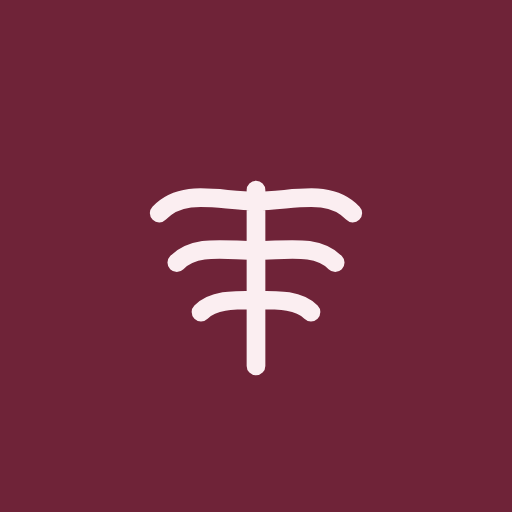
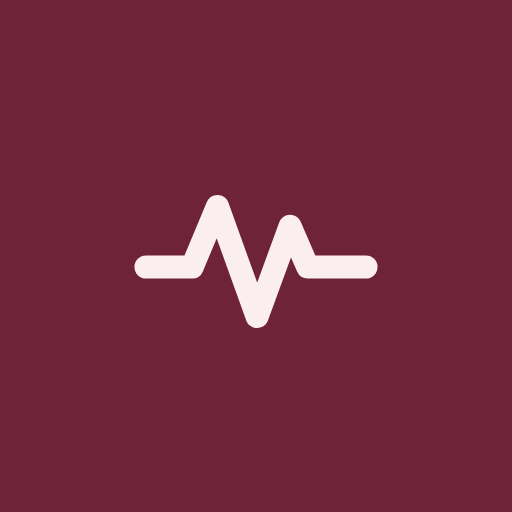
Renomeia para Ritmo; inspiração para posts com estudos e dúvidas do público
- Novo nome (Ritmo), logo e ícones do app
- Conteúdo: painel Inspiração para posts com notícias recentes, estudos
  científicos e revisões do PubMed (títulos traduzidos) e buscas reais do Google
- Cada item vira ideia de post já com a referência nas anotações

Claude-Session: https://claude.ai/code/session_012jSfnKM1HyG88L2FjggULZ

Changed region(s): [[0.25, 0.3438, 0.75, 0.75]]

diff --git a/index.html b/index.html
@@ -9,7 +9,7 @@
 <link rel="apple-touch-icon" href="icons/apple-touch-icon.png">
 <meta name="apple-mobile-web-app-capable" content="yes">
 <meta name="mobile-web-app-capable" content="yes">
-<title>Recanto</title>
+<title>Ritmo</title>
 <meta name="claude:viewport-fit-sides" content="cover">
 <link rel="preconnect" href="https://fonts.googleapis.com">
 <link rel="stylesheet" href="https://fonts.googleapis.com/css2?family=Fraunces:ital,opsz,wght@0,9..144,300..600;1,9..144,300..600&family=Inter:wght@400;500;600&family=JetBrains+Mono:wght@400;500;700&display=swap">
@@ -282,6 +282,15 @@ img{max-width:100%}
 .news.compact li{border-color:color-mix(in srgb,currentColor 18%,transparent);padding:8px 0}
 .news.compact a{font-size:15px}
 .news.compact span{color:inherit;opacity:.7}
+.news .orig{font-size:11.5px;color:var(--soft);font-style:italic}
+.news .tipo{font-weight:500;color:var(--clay)}
+.qgroups{display:grid;grid-template-columns:repeat(auto-fill,minmax(260px,1fr));gap:16px}
+.qgroup h3{margin:0 0 8px;font-family:var(--f-display);font-weight:500;font-size:16px}
+.qchips{display:flex;flex-wrap:wrap;gap:6px}
+.qchip{border:1px solid var(--line);background:var(--surface2);border-radius:99px;padding:5px 11px;font-size:12.5px;color:var(--ink);text-align:left}
+.qchip b{color:var(--clay);margin-left:2px}
+.qchip:hover{border-color:var(--clay)}
+.qchip.done{color:var(--ok);background:none}
 .topics{display:flex;gap:6px;overflow-x:auto;padding-bottom:2px;scrollbar-width:none}
 .topics button{border:1px solid var(--line);background:var(--surface);border-radius:99px;padding:6px 14px;font-size:13px;color:var(--muted);white-space:nowrap}
 .topics button[aria-selected="true"]{background:var(--wine);border-color:var(--wine);color:var(--on-wine)}
@@ -317,7 +326,7 @@ img{max-width:100%}
 .help{color:var(--muted);font-size:12px;line-height:1.5}
 .gate{position:fixed;inset:0;z-index:80;background:var(--paper);display:grid;place-items:center;padding:16px}
 .gate-card{background:var(--surface);border:1px solid var(--line);border-radius:18px;padding:24px;width:min(380px,100%);display:flex;flex-direction:column;gap:12px}
-.gate-card .brand b{font-size:26px}
+.gate-card .brand b{font-size:26px;display:inline!important}
 .gate-sub{margin:0;color:var(--muted)}
 .gate-msg{margin:0;font-size:13px;color:var(--clay);min-height:1em}
 </style>
@@ -327,8 +336,8 @@ img{max-width:100%}
 <div class="app">
   <aside class="side">
     <div class="brand">
-      <svg viewBox="0 0 32 32" aria-hidden="true"><circle cx="16" cy="16" r="15" fill="var(--wine)"/><path d="M16 25V11M16 12c-3 0-6-1-8 1M16 12c3 0 6-1 8 1M16 16c-2.5 0-5-.5-6.5 1M16 16c2.5 0 5-.5 6.5 1M16 20c-2 0-3.5 0-4.5 1M16 20c2 0 3.5 0 4.5 1" stroke="var(--on-wine)" stroke-width="1.6" fill="none" stroke-linecap="round"/></svg>
-      <b>Re<i>canto</i></b>
+      <svg viewBox="0 0 32 32" aria-hidden="true"><circle cx="16" cy="16" r="15" fill="var(--wine)"/><path d="M6 17h4.2l2.3-5.5 3.6 10 3-8.2 1.6 3.7H26" stroke="var(--on-wine)" stroke-width="1.9" fill="none" stroke-linecap="round" stroke-linejoin="round"/></svg>
+      <b>Rit<i>mo</i></b>
     </div>
     <nav class="nav" id="nav" aria-label="Seções"></nav>
     <div class="side-foot">
@@ -345,7 +354,7 @@ img{max-width:100%}
 <div id="layer"></div>
 <div class="gate" id="gate" hidden>
   <form class="gate-card" id="gForm" novalidate>
-    <div class="brand"><svg viewBox="0 0 32 32" aria-hidden="true"><circle cx="16" cy="16" r="15" fill="var(--wine)"/><path d="M16 25V11M16 12c-3 0-6-1-8 1M16 12c3 0 6-1 8 1M16 16c-2.5 0-5-.5-6.5 1M16 16c2.5 0 5-.5 6.5 1M16 20c-2 0-3.5 0-4.5 1M16 20c2 0 3.5 0 4.5 1" stroke="var(--on-wine)" stroke-width="1.6" fill="none" stroke-linecap="round"/></svg><b>Re<i>canto</i></b></div>
+    <div class="brand"><svg viewBox="0 0 32 32" aria-hidden="true"><circle cx="16" cy="16" r="15" fill="var(--wine)"/><path d="M6 17h4.2l2.3-5.5 3.6 10 3-8.2 1.6 3.7H26" stroke="var(--on-wine)" stroke-width="1.9" fill="none" stroke-linecap="round" stroke-linejoin="round"/></svg><b>Rit<i>mo</i></b></div>
     <p class="gate-sub">Entre para ver e salvar seus dados.</p>
     <div class="field"><label class="mono" for="gEmail">E-mail</label><input id="gEmail" type="email" autocomplete="email" required></div>
     <div class="field"><label class="mono" for="gPass">Senha</label><input id="gPass" type="password" autocomplete="current-password" minlength="6" required></div>
@@ -758,7 +767,7 @@ function sparkline(vals,stroke){
 /* ================= componentes ================= */
 function head(sec,title,sub,right=''){
   const d=TODAY;
-  return `<div class="head"><div><div class="crumb mono">Recanto / <span>${sec}</span> · ${DOW[d.getDay()]}, ${d.getDate()} de ${MES[d.getMonth()]}</div><h1>${title}${sub?`<small>${sub}</small>`:''}</h1></div><div style="display:flex;gap:8px;flex-wrap:wrap">${right}</div></div>`;
+  return `<div class="head"><div><div class="crumb mono">Ritmo / <span>${sec}</span> · ${DOW[d.getDay()]}, ${d.getDate()} de ${MES[d.getMonth()]}</div><h1>${title}${sub?`<small>${sub}</small>`:''}</h1></div><div style="display:flex;gap:8px;flex-wrap:wrap">${right}</div></div>`;
 }
 function miniCal(off){
   const base=new Date(TODAY.getFullYear(),TODAY.getMonth()+off,1);
@@ -791,7 +800,7 @@ V.inicio=()=>{
   return `
   <section class="hero">
     <div class="hero-txt">
-      <div class="crumb mono">Recanto / <span>Início</span> · ${DOW[TODAY.getDay()]}, ${TODAY.getDate()} de ${MES[TODAY.getMonth()]}</div>
+      <div class="crumb mono">Ritmo / <span>Início</span> · ${DOW[TODAY.getDay()]}, ${TODAY.getDate()} de ${MES[TODAY.getMonth()]}</div>
       <h1>${g}, <button data-act="rename" title="Mudar nome">${esc(S.name)}</button></h1>
       <div class="hero-sum">Você tem <b>${pend}</b> tarefa${pend===1?'':'s'} para hoje, <b>${habPend}</b> hábito${habPend===1?'':'s'} por marcar e <b>${evToday}</b> compromisso${evToday===1?'':'s'}.${late.length?` <span style="color:var(--bad)">${late.length} atrasada${late.length>1?'s':''}.</span>`:''}</div>
       <div class="quick">
@@ -927,7 +936,7 @@ V.conteudo=()=>{
       <div class="panel"><div class="panel-h"><h2>Próximos posts</h2></div><div class="rows">${upcoming.map(row).join('')||'<div class="empty">Nada agendado.</div>'}</div></div>
     </div>
   </div>
-  <div class="panel"><div class="panel-h"><h2>${ico('news')}Ideias: nutrição esportiva</h2><span style="display:flex;gap:6px"><button class="btn sm" data-act="newsreload" data-v="nutricao">↻</button><a class="btn sm" href="#noticias" data-act="gonutri">Ver todas</a></span></div>${newsList(G.news.nutricao,6,{topic:'nutricao',idea:true})}</div>`;
+  ${inspPanel()}`;
 };
 function bindPostDrag(){
   document.querySelectorAll('[data-pdrag]').forEach(el=>el.addEventListener('dragstart',ev=>{ev.stopPropagation();ev.dataTransfer.setData('text/plain',el.dataset.pdrag);ev.dataTransfer.effectAllowed='move'}));
@@ -997,7 +1006,7 @@ const ACT_EXTRA={
   newstopic:e=>{G.topic=e.dataset.v;loadNews(G.topic);render();return 'skip'},
   newsreload:e=>{loadNews(e.dataset.v||(ui.route==='inicio'?'destaques':ui.route==='conteudo'?'nutricao':G.topic),true);return 'skip'},
   gonutri:()=>{G.topic='nutricao';loadNews('nutricao');location.hash='noticias';return 'skip'},
-  toidea:e=>{S.posts.push({id:uid(),title:e.dataset.t,platform:'Instagram',format:'Reels',status:'ideia',date:'',time:'',account:ui.ctAcc!=='all'?ui.ctAcc:'',reach:0,link:e.dataset.l,caption:'',hashtags:'',notes:''});toast('Ideia salva em Conteúdo → Ideias sem data')},
+  toidea:e=>{S.posts.push({id:uid(),title:e.dataset.t,platform:'Instagram',format:'Reels',status:'ideia',date:'',time:'',account:ui.ctAcc!=='all'?ui.ctAcc:'',reach:0,link:e.dataset.l,caption:'',hashtags:'',notes:e.dataset.n||''});toast('Ideia salva em Conteúdo → Ideias sem data')},
   pnew:()=>postForm(),pedit:e=>postForm(e.dataset.id),pnewday:e=>postForm(null,{date:e.dataset.d}),
   accnew:()=>accountForm(),accedit:e=>accountForm(e.dataset.id),
   ctsel:e=>{ui.ctSel=e.dataset.d;render();if(matchMedia('(max-width:900px)').matches)$('#daypanel')?.scrollIntoView({behavior:'smooth',block:'start'});return 'skip'},
@@ -1012,6 +1021,63 @@ const ACT_EXTRA={
   },'Conectar'),
   gdisconnect:async()=>{const {error}=await sb.from('recanto_config').update({google_ical:null}).eq('user_id',cloud.uid);if(error){toast('Não deu para desconectar');return 'skip'}G.gcal={conectado:false,eventos:[],erro:'',at:null,loading:false};saveExtras();toast('Google Agenda desconectado');render();return 'skip'}
 };
+
+/* ================= inspiração para posts ================= */
+const INSP_TABS=[['noticias','Notícias'],['estudos','Estudos científicos'],['revisoes','Revisões e meta-análises'],['perguntas','O que o público pergunta']];
+G.insp={};G.inspAt={};G.inspErr={};G.inspLoading={};G.inspTab='noticias';
+try{const c=JSON.parse(localStorage.getItem('ritmo.insp')||'null');if(c){G.insp=c.insp||{};G.inspAt=c.at||{}}}catch(e){}
+async function loadInsp(t,force){
+  if(t==='noticias')return loadNews('nutricao',force);
+  if(!sb||!cloud.uid)return;
+  if(!force&&G.inspAt[t]&&Date.now()-new Date(G.inspAt[t])<30*60e3)return;
+  G.inspLoading[t]=true;G.inspErr[t]='';refreshIf('conteudo','noticias');
+  try{
+    const {data,error}=await sb.functions.invoke('inspiracao',{body:{tipo:t}});
+    if(error||!data||data.erro)throw error||new Error(data?.erro);
+    G.insp[t]=t==='perguntas'?data.grupos:data.itens;G.inspAt[t]=data.atualizado;
+    if(t!=='perguntas')traduzir(data.itens.map(a=>a.original));
+    try{localStorage.setItem('ritmo.insp',JSON.stringify({insp:G.insp,at:G.inspAt}))}catch(e){}
+  }catch(e){G.inspErr[t]='Não deu para carregar agora.'}
+  G.inspLoading[t]=false;refreshIf('conteudo','noticias');
+}
+// Tradução dos títulos em inglês, feita no aparelho e guardada para não repetir.
+let TRAD={};try{TRAD=JSON.parse(localStorage.getItem('ritmo.trad')||'{}')}catch(e){}
+async function traduzir(lista){
+  const falta=[...new Set(lista.filter(t=>!TRAD[t]))].slice(0,40);
+  for(let i=0;i<falta.length;i+=4){
+    await Promise.all(falta.slice(i,i+4).map(async t=>{
+      try{const r=await fetch('https://translate.googleapis.com/translate_a/single?client=gtx&sl=en&tl=pt&dt=t&q='+encodeURIComponent(t));if(!r.ok)return;const d=await r.json();const pt=(d[0]||[]).map(x=>x[0]).join('').trim();if(pt)TRAD[t]=pt}catch(e){}
+    }));
+  }
+  try{const keys=Object.keys(TRAD);if(keys.length>400)keys.slice(0,keys.length-400).forEach(k=>delete TRAD[k]);localStorage.setItem('ritmo.trad',JSON.stringify(TRAD))}catch(e){}
+  if(falta.length)refreshIf('conteudo');
+}
+const tr=a=>TRAD[a.original]||a.titulo;
+const isIdea=link=>S.posts.some(p=>p.link===link);
+const ideaBtn=(title,link,note)=>isIdea(link)?`<span class="saved">✓ Já está nas ideias</span>`:`<button class="btn sm idea" data-act="toidea" data-t="${esc(title)}" data-l="${esc(link)}" data-n="${esc(note||'')}">${ico('plus')} Virar ideia de post</button>`;
+function inspBody(t){
+  if(t==='noticias')return `<p class="gc-p">Notícias dos últimos dias sobre suplementação, proteína, treino e dieta, das mais novas para as mais antigas.</p>${newsList(G.news.nutricao,12,{topic:'nutricao',idea:true})}`;
+  const d=G.insp[t];
+  if(!d||!d.length){
+    if(G.inspErr[t])return `<div class="empty">${G.inspErr[t]} <button class="btn sm" data-act="inspreload">Tentar de novo</button></div>`;
+    return `<div class="empty">${G.inspLoading[t]?'Buscando…':'Carregando…'}</div>`;
+  }
+  if(t==='perguntas'){
+    return `<p class="gc-p">Buscas reais feitas no Google sobre nutrição esportiva. Cada dúvida pode virar um post. Toque em <b>+</b> para guardar como ideia.</p><div class="qgroups">${d.map(g=>`<div class="qgroup"><h3>${esc(g.tema)}…</h3><div class="qchips">${g.itens.map(q=>{const title=q.charAt(0).toUpperCase()+q.slice(1)+'?';const link='https://www.google.com/search?q='+encodeURIComponent(q);return isIdea(link)?`<span class="qchip done">✓ ${esc(q)}</span>`:`<button class="qchip" data-act="toidea" data-t="${esc(title)}" data-l="${esc(link)}" data-n="Dúvida buscada no Google: “${esc(q)}”">${esc(q)} <b>+</b></button>`}).join('')}</div></div>`).join('')}</div>`;
+  }
+  return `<p class="gc-p">${t==='estudos'?'Artigos publicados nas últimas semanas (PubMed). Ótimos para posts do tipo “o que a ciência diz”.':'Revisões e meta-análises recentes: juntam vários estudos e dão as conclusões mais fortes.'} Títulos traduzidos automaticamente.</p>
+  <ol class="news">${d.map(a=>`<li><a href="${esc(a.link)}" target="_blank" rel="noopener noreferrer">${esc(tr(a))}</a>${tr(a)!==a.original?`<span class="orig">${esc(a.original)}</span>`:''}<div class="nmeta"><span><b class="tipo">${esc(a.tipo)}</b> · ${esc(a.fonte)}${a.data?' · '+esc(a.data):''}</span>${ideaBtn(tr(a),a.link,`Base científica: ${a.tipo} — “${a.original}” (${a.fonte}, ${a.data||''}). ${a.link}`)}</div></li>`).join('')}</ol>`;
+}
+function inspPanel(){
+  const t=G.inspTab;const at=t==='noticias'?G.newsAt.nutricao:G.inspAt[t];
+  return `<div class="panel" id="insp"><div class="panel-h"><h2>${ico('trend')}Inspiração para posts</h2><button class="btn sm" data-act="inspreload">↻ Atualizar</button></div>
+  <div class="topics" role="tablist" style="margin-bottom:12px">${INSP_TABS.map(([k,l])=>`<button role="tab" data-act="insptab" data-v="${k}" aria-selected="${k===t}">${l}</button>`).join('')}</div>
+  ${inspBody(t)}<div class="foot-note" style="color:var(--muted)">${t==='noticias'?'Fonte: Google Notícias':t==='perguntas'?'Fonte: sugestões de busca do Google':'Fonte: PubMed (Biblioteca Nacional de Medicina dos EUA)'}${at?' · atualizado '+rel(at):''}</div></div>`;
+}
+Object.assign(ACT_EXTRA,{
+  insptab:e=>{G.inspTab=e.dataset.v;loadInsp(G.inspTab);render();return 'skip'},
+  inspreload:()=>{loadInsp(G.inspTab,true);return 'skip'}
+});
 
 /* ================= navegação ================= */
 const NAV=[['inicio','Início','home'],['tarefas','Tarefas','tasks'],['habitos','Hábitos','habit'],['cerebro','Segundo cérebro','brain'],['noticias','Notícias','news'],['agenda','Agenda','cal'],['conteudo','Conteúdo','content']];
@@ -1029,7 +1095,7 @@ function render(){
   if(ui.route==='conteudo')bindPostDrag();
 }
 let lastRoute='';
-window.addEventListener('hashchange',()=>{if(location.hash==='#noticias')loadNews(G.topic);if(location.hash==='#conteudo')loadNews('nutricao');render();if(ui.route!==lastRoute){window.scrollTo(0,0);lastRoute=ui.route;scrollToday()}});
+window.addEventListener('hashchange',()=>{if(location.hash==='#noticias')loadNews(G.topic);if(location.hash==='#conteudo')loadInsp(G.inspTab);render();if(ui.route!==lastRoute){window.scrollTo(0,0);lastRoute=ui.route;scrollToday()}});
 function scrollToday(){if(ui.route==='tarefas'){const c=$('#todaycol'),w=$('#week');if(c&&w)w.scrollLeft=c.offsetLeft-w.offsetLeft-8}}
 
 /* ================= ações ================= */
@@ -1096,7 +1162,7 @@ render();lastRoute=ui.route;scrollToday();
 /* app instalável */
 let installEvt=null;
 window.addEventListener('beforeinstallprompt',e=>{e.preventDefault();installEvt=e;$('#installBtn').hidden=false});
-window.addEventListener('appinstalled',()=>{installEvt=null;$('#installBtn').hidden=true;toast('Recanto instalado')});
+window.addEventListener('appinstalled',()=>{installEvt=null;$('#installBtn').hidden=true;toast('Ritmo instalado')});
 $('#installBtn').onclick=async()=>{if(!installEvt)return;installEvt.prompt();const r=await installEvt.userChoice;installEvt=null;if(r.outcome!=='accepted')$('#installBtn').hidden=true};
 if('serviceWorker' in navigator&&location.protocol==='https:')navigator.serviceWorker.register('sw.js').catch(()=>{});
 /* login */
@@ -1105,7 +1171,7 @@ $('#gUp').addEventListener('click',()=>authSubmit('up'));
 if(!sb){showLogin('Não foi possível carregar o Supabase. Verifique a internet e recarregue a página.')}
 else sb.auth.onAuthStateChange((ev,session)=>{
   const uid=session?.user?.id||null;
-  if(uid&&uid!==cloud.uid){cloud.uid=uid;cloud.ready=false;$('#gate').hidden=true;cloud.load();loadNews('destaques');loadGcal();if(ui.route==='conteudo')loadNews('nutricao');if(ui.route==='noticias')loadNews(G.topic)}
+  if(uid&&uid!==cloud.uid){cloud.uid=uid;cloud.ready=false;$('#gate').hidden=true;cloud.load();loadNews('destaques');loadGcal();if(ui.route==='conteudo')loadInsp(G.inspTab);if(ui.route==='noticias')loadNews(G.topic)}
   else if(!uid){if(cloud.chan){sb.removeChannel(cloud.chan);cloud.chan=null}cloud.uid=null;cloud.ready=false;cloud.versao=0;cloud.base=null;G.news={};G.newsAt={};G.gcal={conectado:null,eventos:[],erro:'',at:null,loading:false};try{localStorage.removeItem('recanto.extras')}catch(e){}showLogin();}
 });
 

diff --git a/sw.js b/sw.js
@@ -1,6 +1,6 @@
-// Recanto: guarda a página para abrir rápido e sem internet.
+// Ritmo: guarda a página para abrir rápido e sem internet.
 // Sempre tenta a versão nova primeiro; dados (Supabase) nunca passam pelo cache.
-const CACHE = 'recanto-v1';
+const CACHE = 'ritmo-v2';
 const SHELL = ['./', './index.html', './manifest.webmanifest', './icons/icon-192.png', './icons/icon-512.png'];
 
 self.addEventListener('install', (e) => {

diff --git a/README.md b/README.md
@@ -1,4 +1,4 @@
-# Recanto
+# Ritmo
 
 Central pessoal para organizar a vida: tarefas da semana, hábitos, segundo cérebro (notas), financeiro com cartões, agenda e conteúdo.
 
